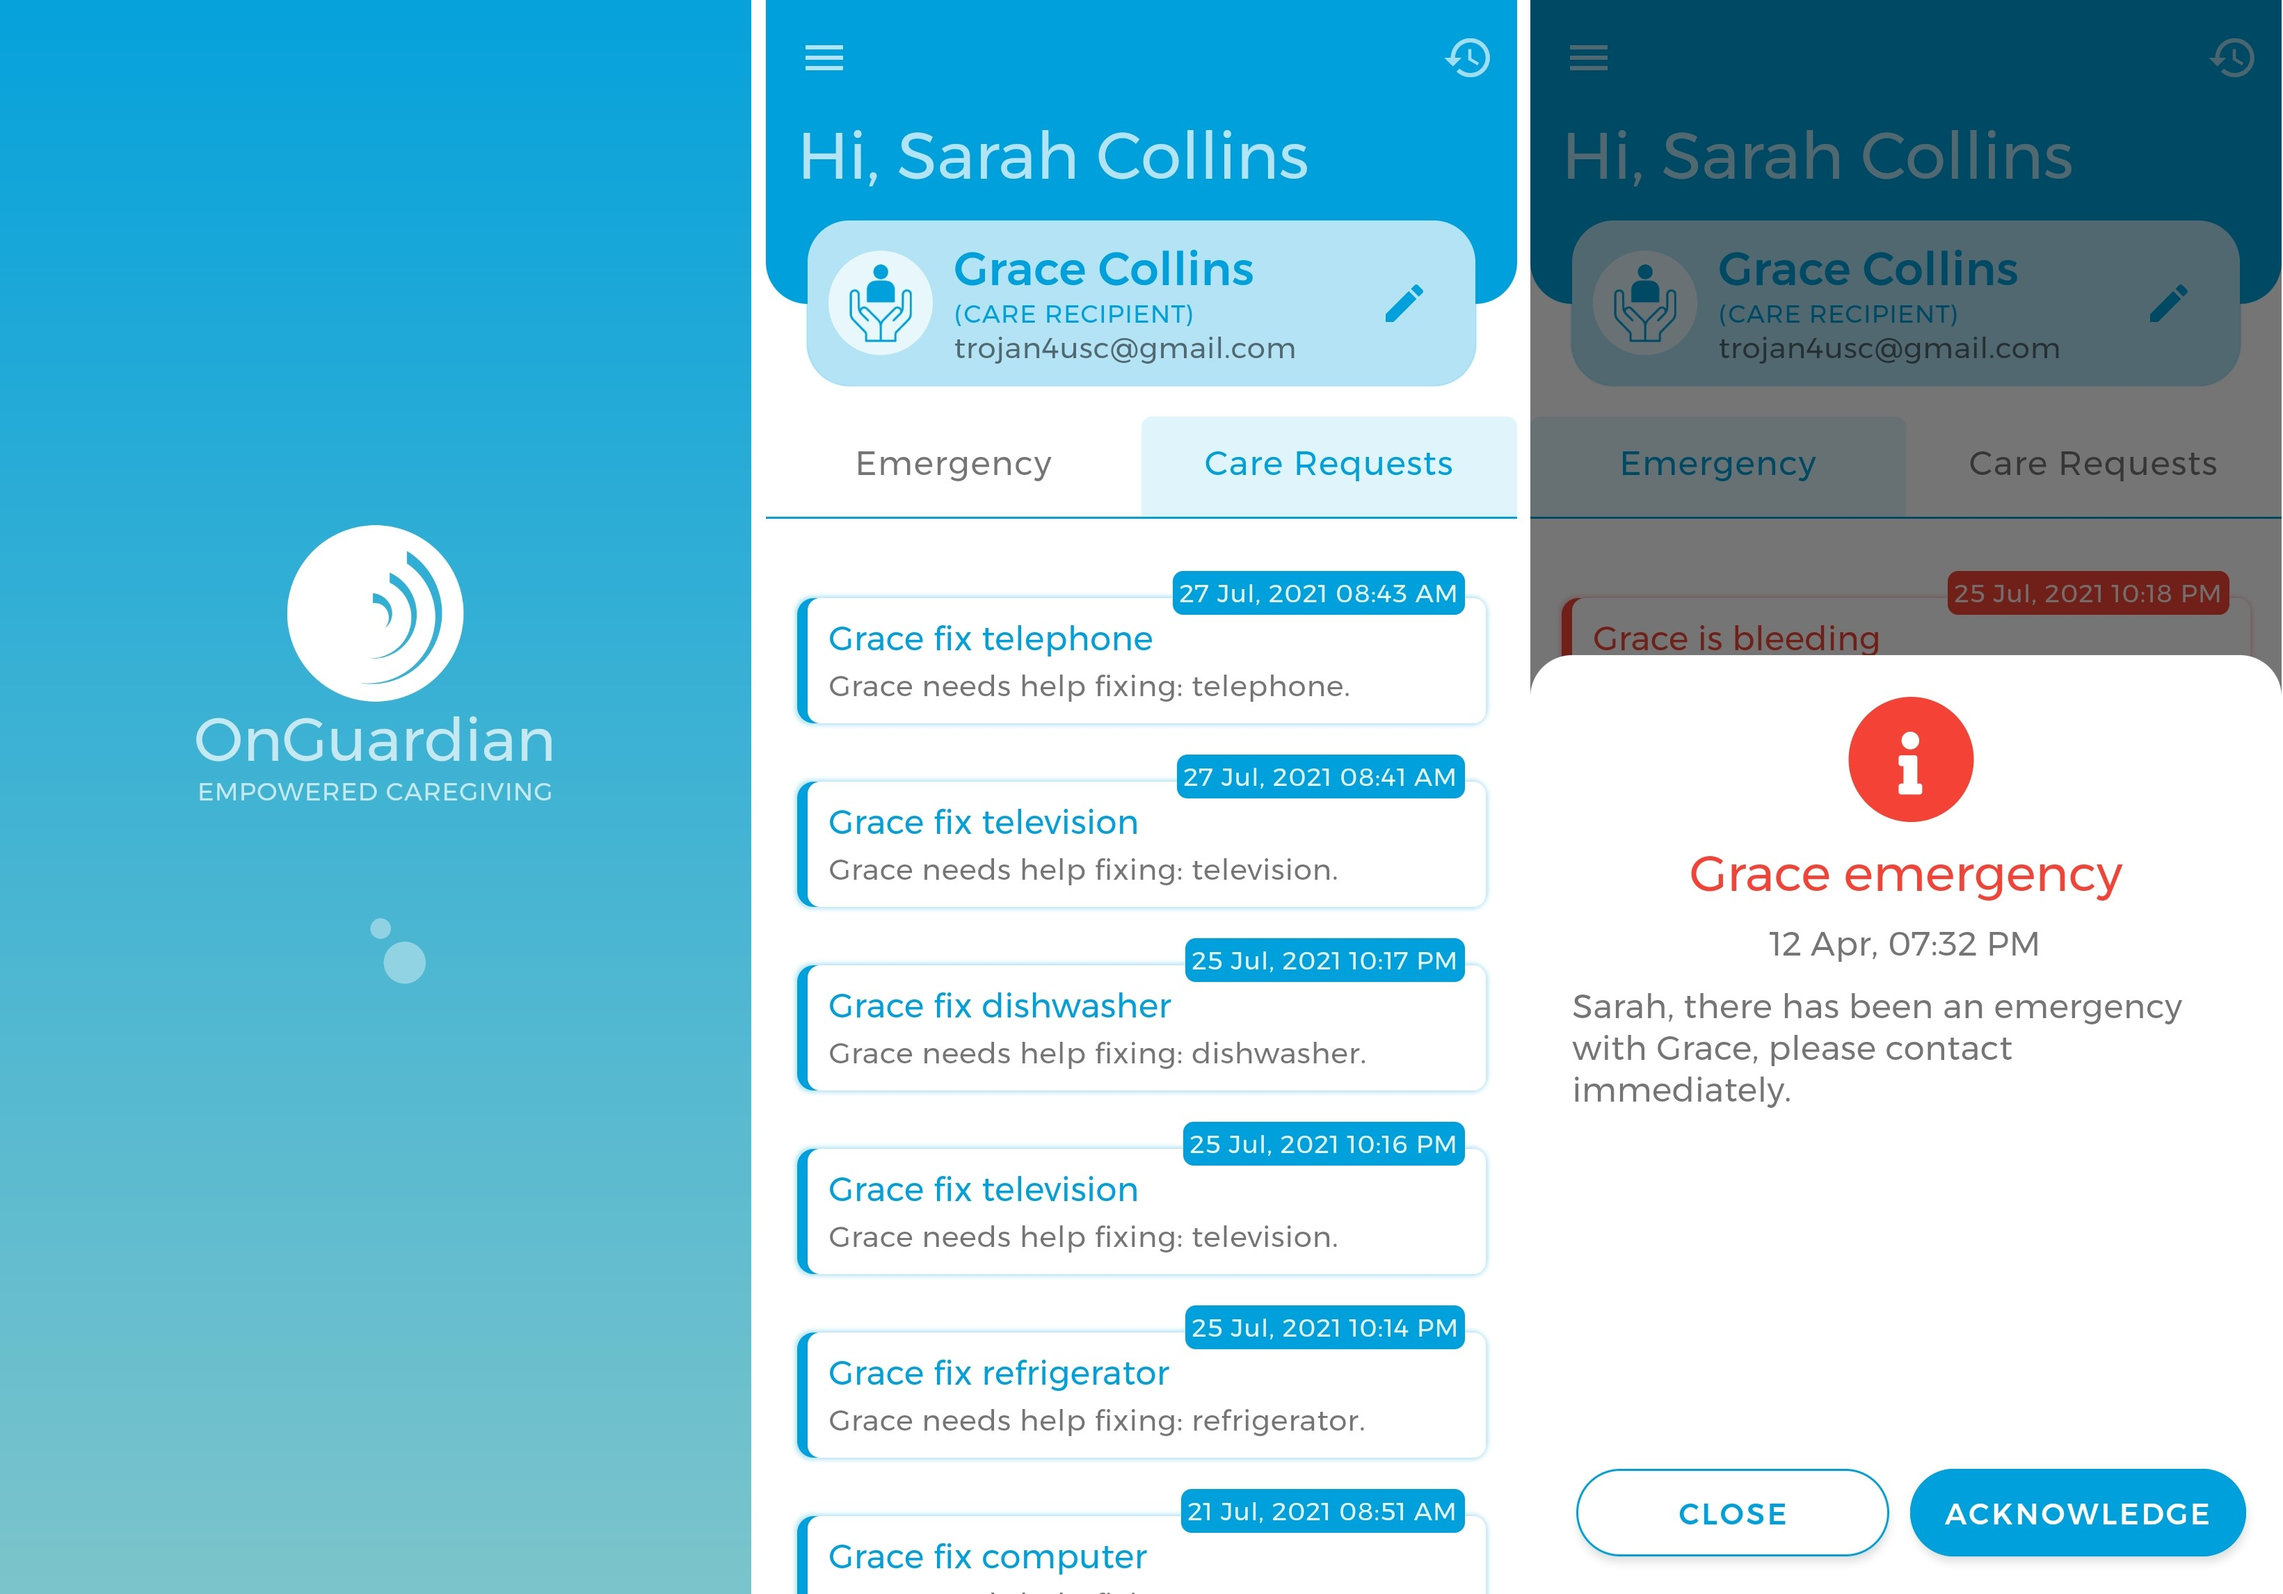
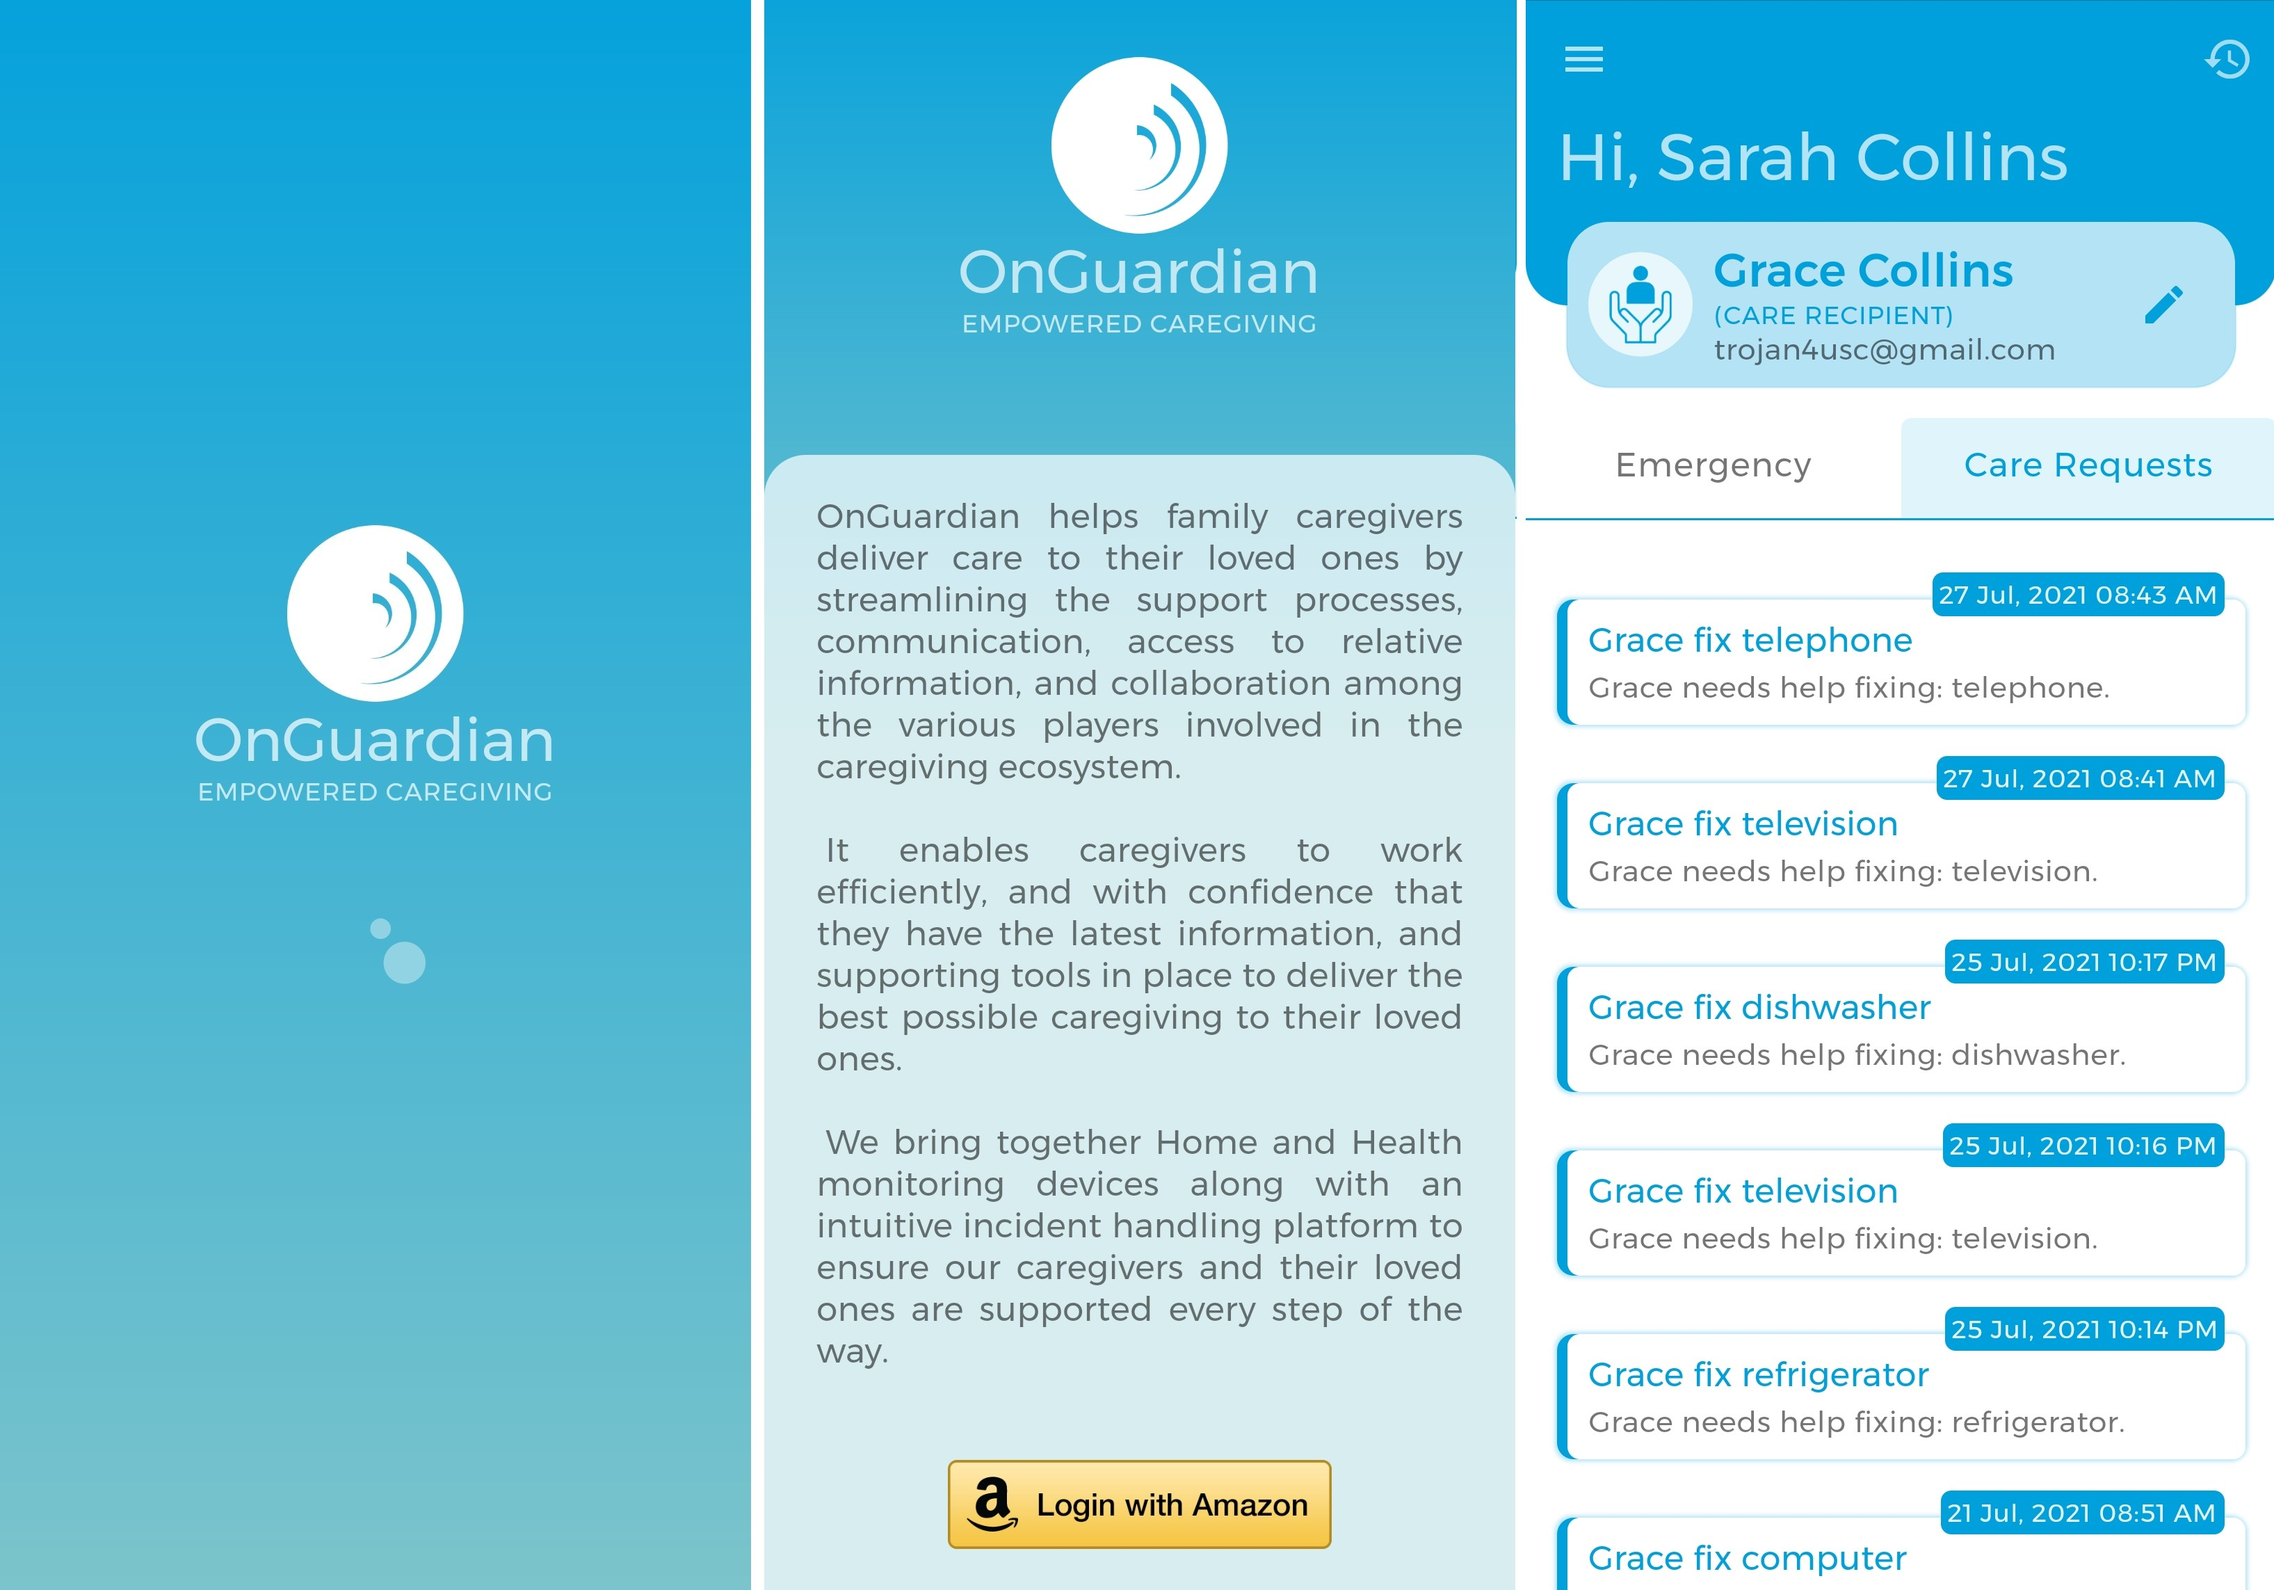
- portfolio

diff --git a/portfolio/onguardian.html b/portfolio/onguardian.html
@@ -99,7 +99,7 @@
                   </div>
 
                 <div class="swiper-slide">
-                  <img src="../assets/img/portfolio/onguardian/screen-2.jpg" alt="">
+                  <img src="../assets/img/portfolio/onguardian/screen-2.png" alt="">
                 </div>
 <!-- 
                 <div class="swiper-slide">
@@ -116,7 +116,7 @@
               <ul>
                 <li><strong>Category</strong>: Mobile Application</li>
                 <li><strong>Client</strong>: <a href="https://www.onguardian.io/">OnGuardian</a></li>
-                <li><strong>Project Highlights</strong>: Flutter App with Firestore Database</li>
+                <li><strong>Project Highlights</strong>: Flutter App with Amazon Login</li>
                 <!-- <li><strong>Project URL</strong>: <a href="https://play.google.com/store/apps/details?id=com.collabera.conect">VentPoint</a></li> -->
               </ul>
             </div>
